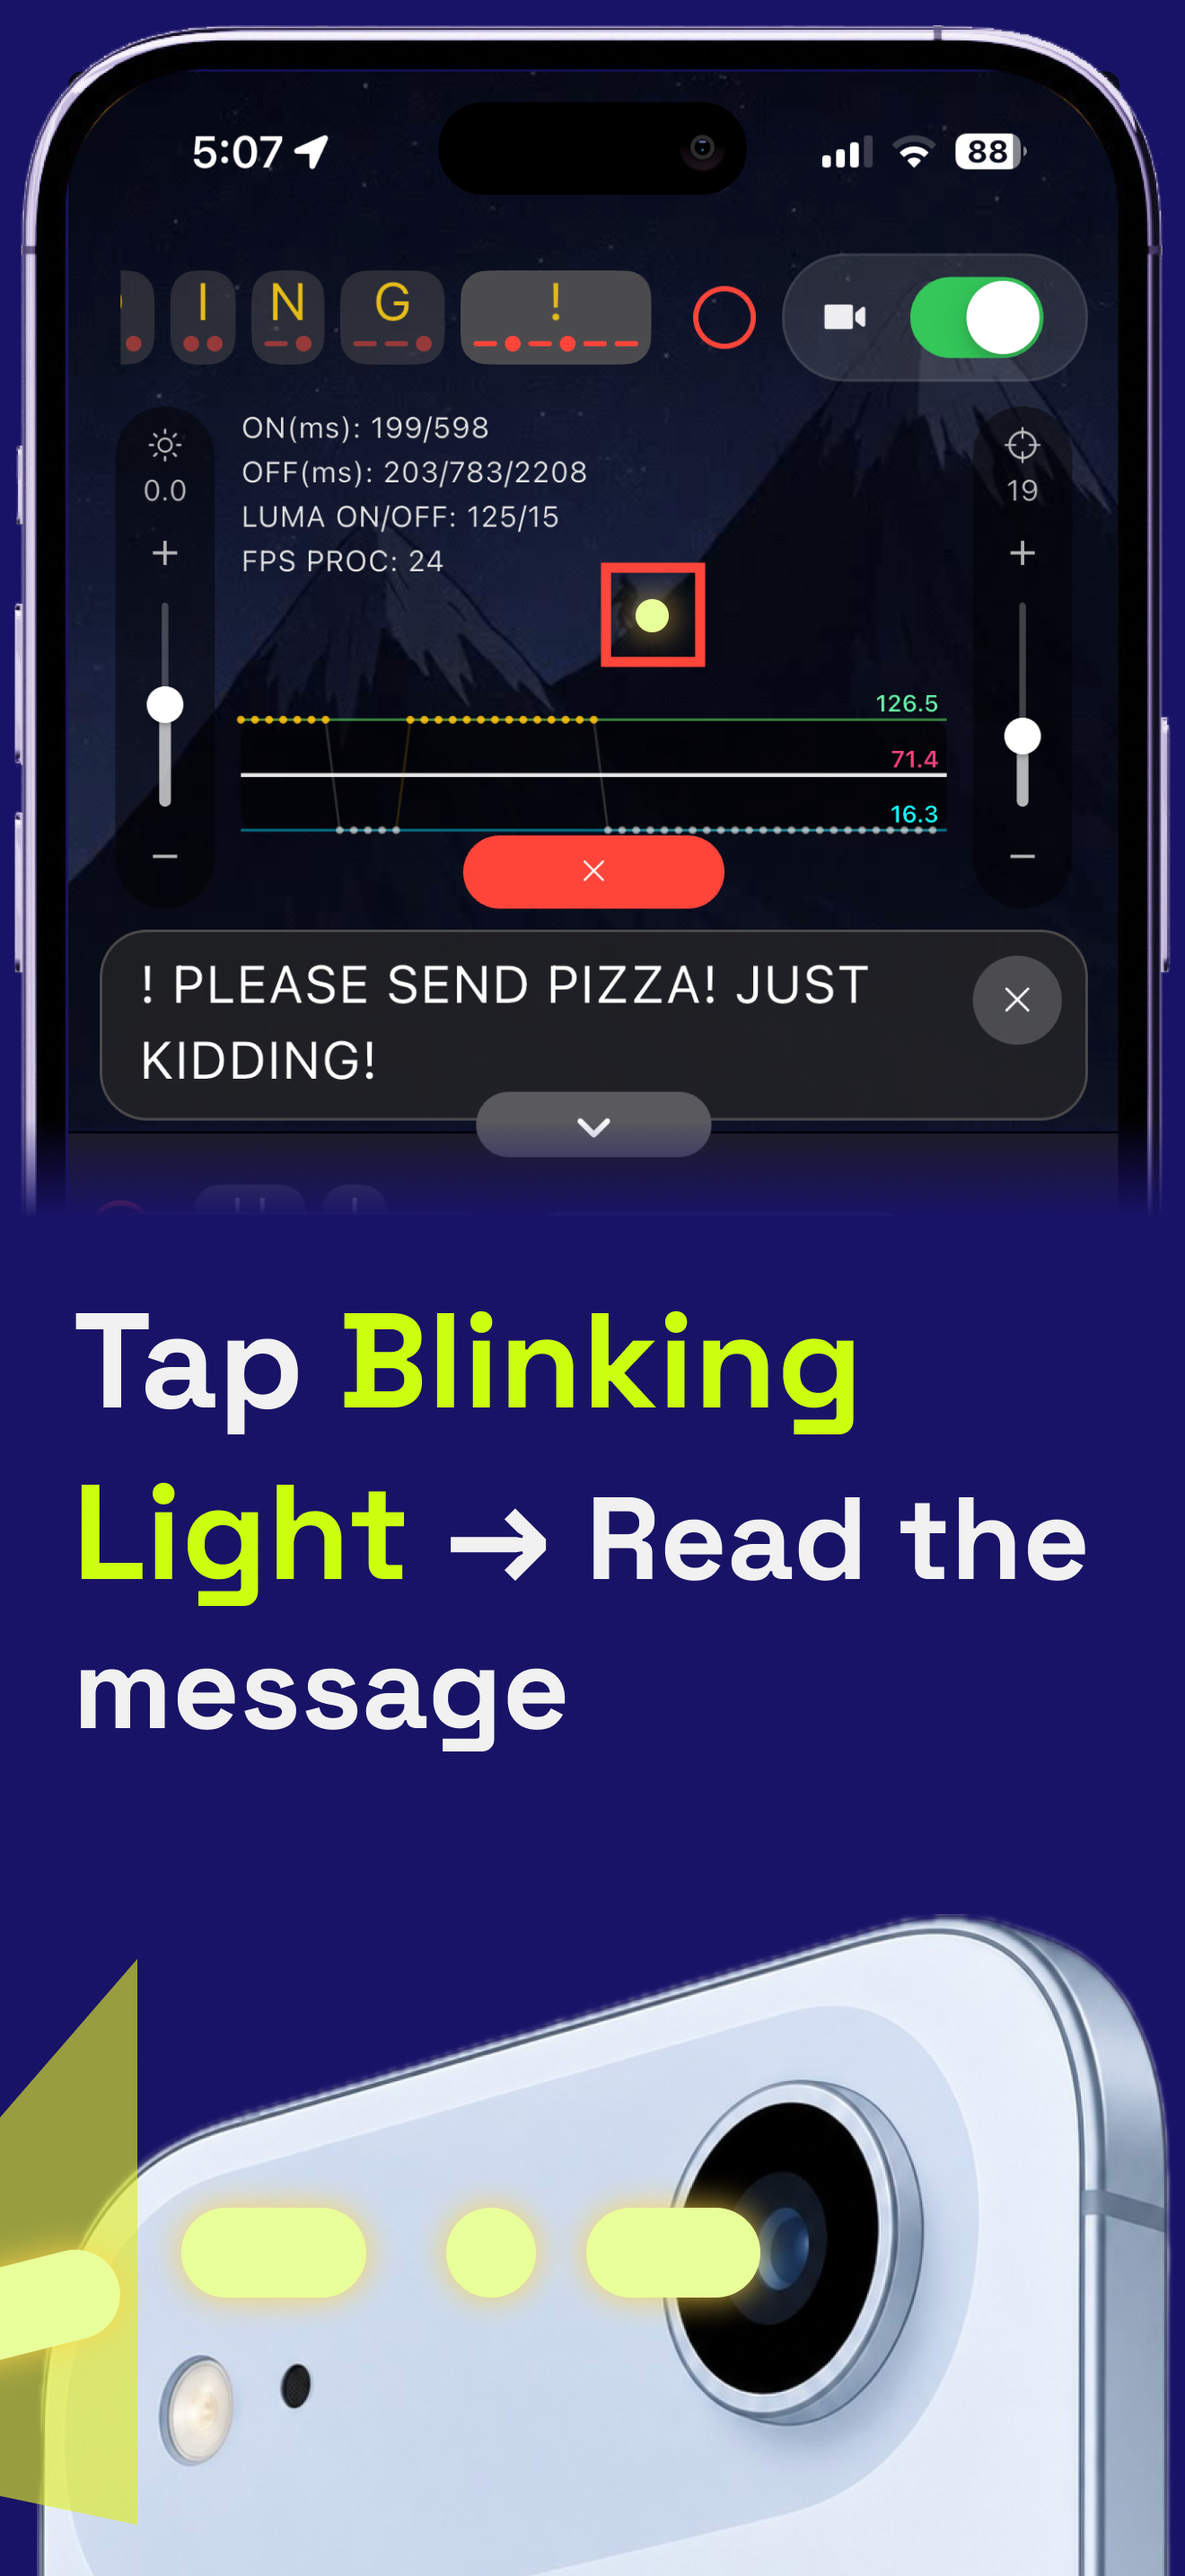
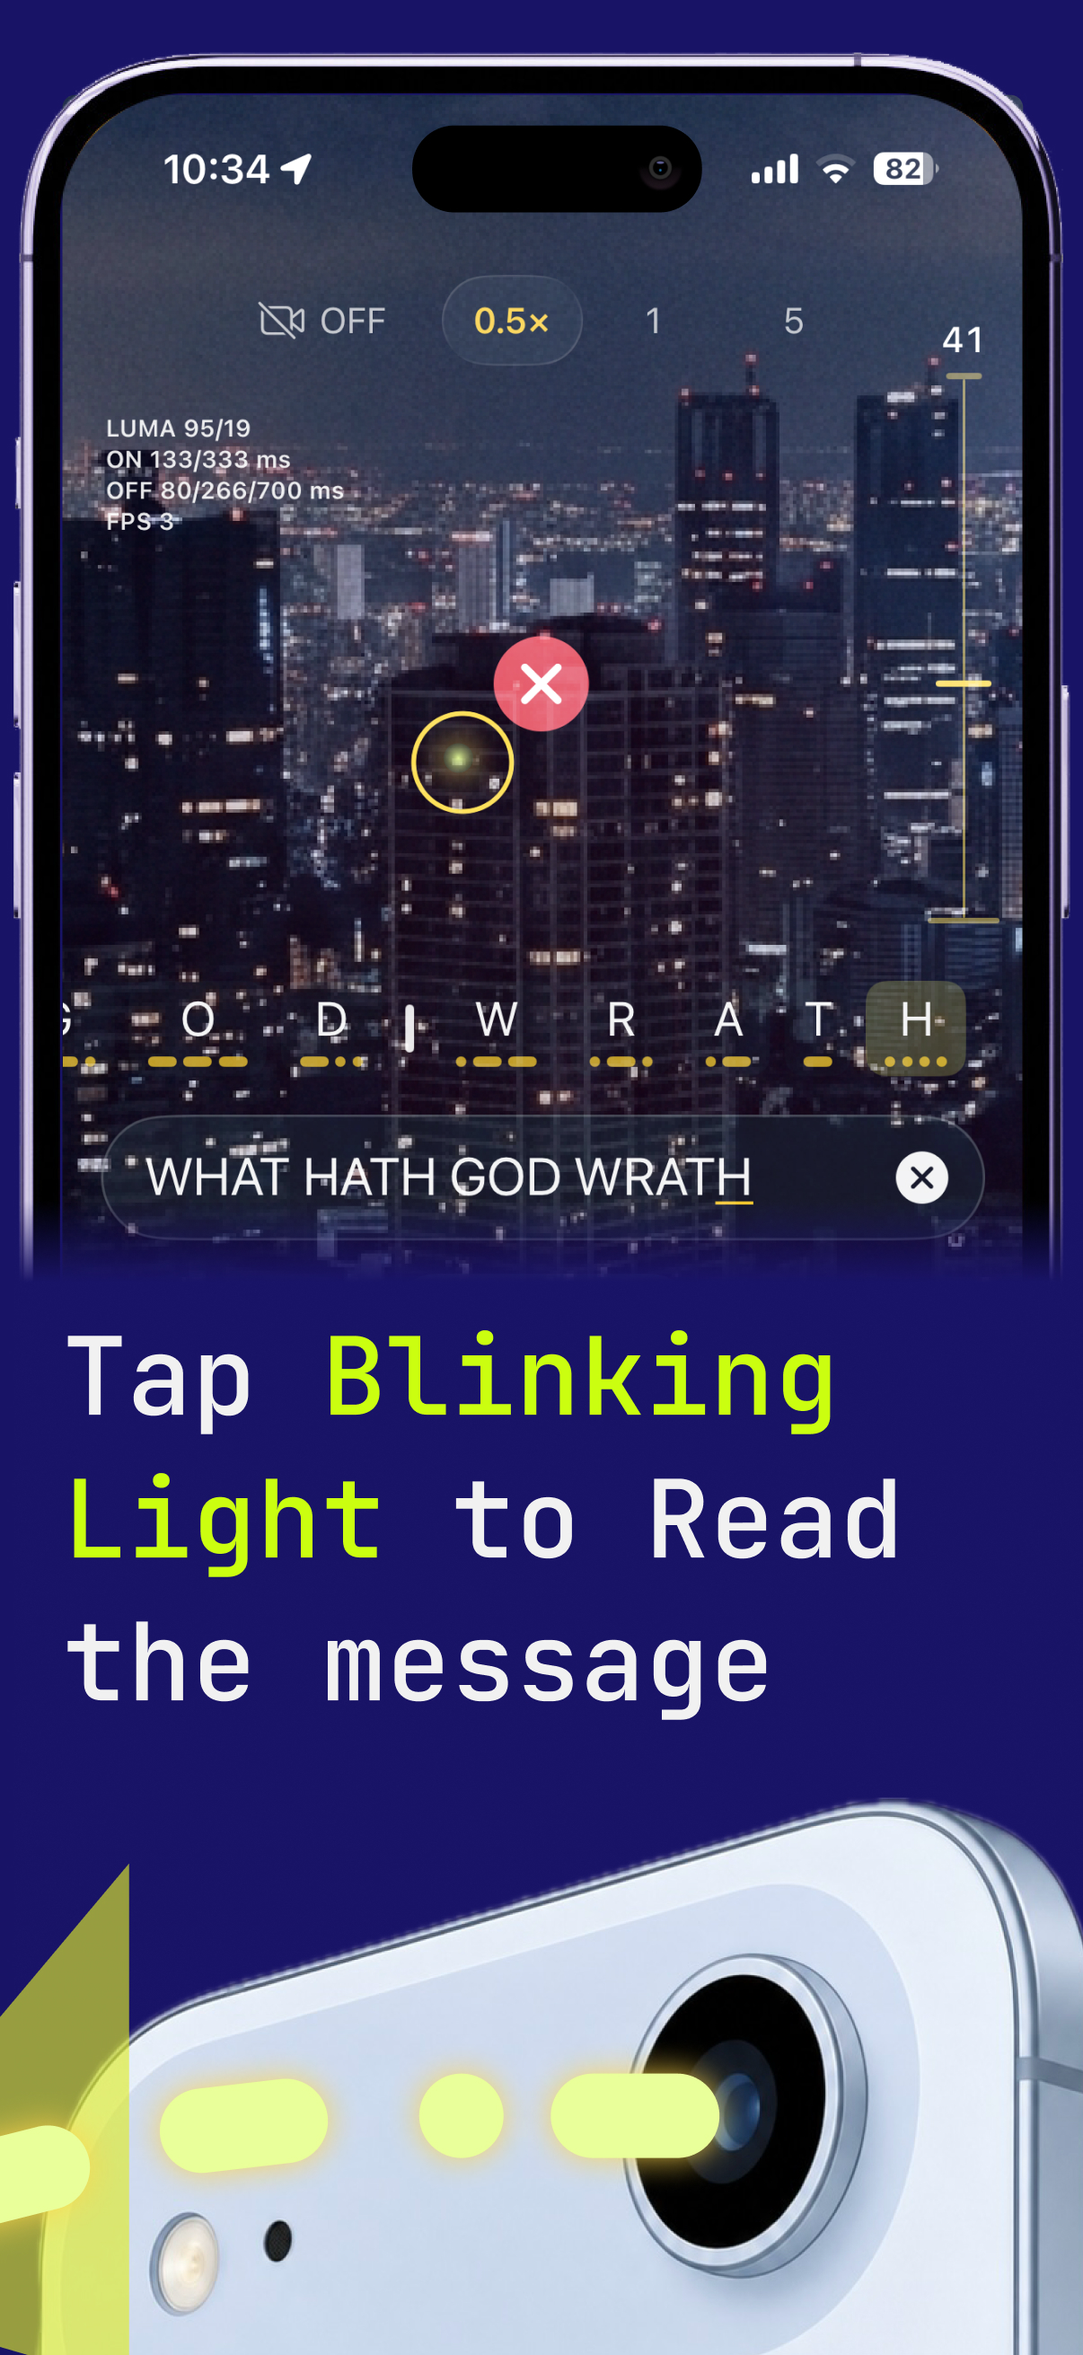
Update app introduction carousel images to v1.3.0 screenshots

diff --git a/index.html b/index.html
@@ -154,8 +154,8 @@
               <article class="shot-card intro-carousel__slide">
                 <div class="shot-frame">
                   <div class="shot-screen">
-                    <img src="assets/Frame 1.png"
-                      alt="Morse Watcher showing the tap-to-start detection screen." />
+                    <img src="assets/Frame 1.jpg"
+                      alt="Morse Watcher showing the Morse sender interface with keyboard controls and symbol guide." />
                   </div>
                 </div>
               </article>
@@ -163,8 +163,8 @@
               <article class="shot-card intro-carousel__slide">
                 <div class="shot-frame">
                   <div class="shot-screen">
-                    <img src="assets/Frame 2.png"
-                      alt="Morse Watcher showing the detector locking onto the target light source." />
+                    <img src="assets/Frame 2.jpg"
+                      alt="Morse Watcher showing the detector locking onto a target light source." />
                   </div>
                 </div>
               </article>
@@ -172,7 +172,7 @@
               <article class="shot-card intro-carousel__slide">
                 <div class="shot-frame">
                   <div class="shot-screen">
-                    <img src="assets/Frame 3.png"
+                    <img src="assets/Frame 3.jpg"
                       alt="Morse Watcher decoding Morse while tracking the active light source." />
                   </div>
                 </div>
@@ -181,8 +181,8 @@
               <article class="shot-card intro-carousel__slide">
                 <div class="shot-frame">
                   <div class="shot-screen">
-                    <img src="assets/Frame 4.png"
-                      alt="Morse Watcher showing the Morse sender interface with keyboard controls." />
+                    <img src="assets/Frame 4.jpg"
+                      alt="Morse Watcher showing offline optical communication using the flashlight." />
                   </div>
                 </div>
               </article>
